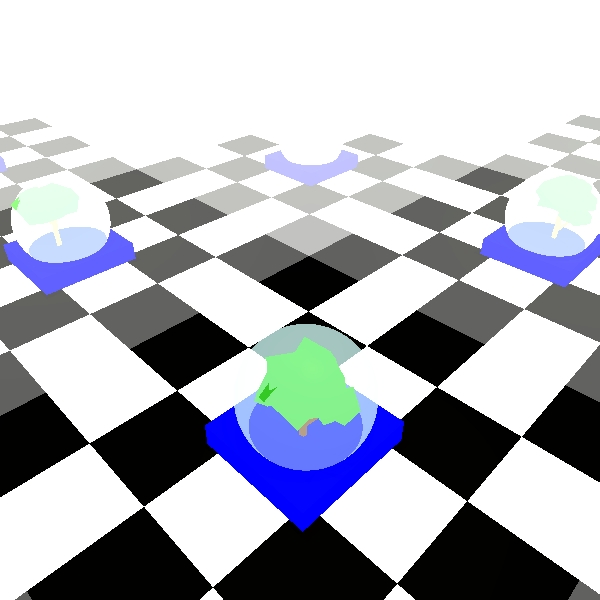
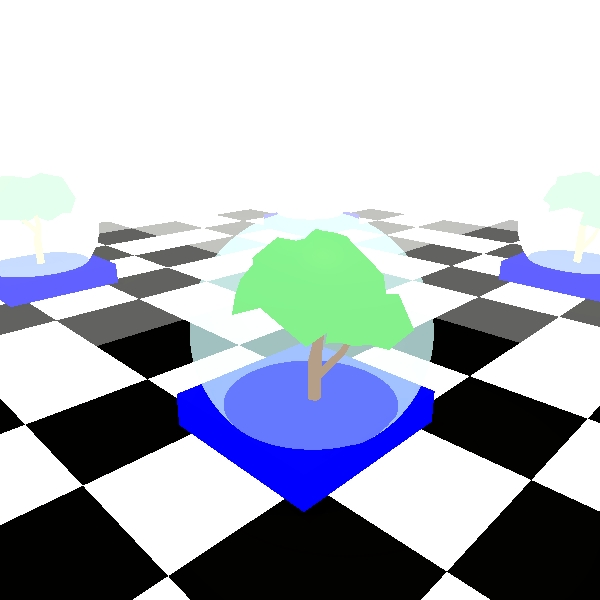
arbre dans sphere + damier

diff --git a/unitTest/Private/Wolf_1Test.java b/unitTest/Private/Wolf_1Test.java
@@ -84,16 +84,16 @@ public class Wolf_1Test {
                         new Vector(0, 1, 0),
                         new Vector(1,0 ,0 )))*/
                 .addCamera(new Camera( // vue de haut gauche
-                         new Point3D(-1499, 2400, -1559),
-                         new Vector(1, -1, 1),
-                         new Vector(sqrt(2)/2 ,sqrt(2) ,sqrt(2)/2  )))
+                         new Point3D(-1499, 1200, -1559),
+                         new Vector(1, -0.5, 1),
+                         new Vector(0.5  ,2,0.5   )))
                 .addDistance(180)
                 .addBackground(Color.BLACK)
                 .build();
 
         scene.addGeometries( //
-                             new Sphere(new Color(100, 120, 120), new Material(0.5, 0.5, 30,0.6,0),400,
-                                        new Point3D(0, 224.7280955, -13.568478)),
+                             new Sphere(new Color(100, 120, 120), new Material(0.5, 0.5, 30,0.6,0),500,
+                                        new Point3D(-50, 324.7280955, -43.568478)),
 
                             // cube du bas
                              new Cube(new Color(java.awt.Color.BLUE), new Material(0.5, 0.5, 30),
@@ -112,10 +112,10 @@ public class Wolf_1Test {
                                  //   new Material(0, 0, 30),new Point3D(0,0,0),1)
                              new Tree( // tronc
                                        new Color(136, 66, 29),
-                                       new Material(0, 0, 30),new Point3D(-40,0,-90),2.7), // deplace le tronc de 60 a droite
+                                       new Material(0, 0, 30),new Point3D(-50,0,-43),3.5), // deplace le tronc de 60 a droite
                              new Tree_2( // feuille
                                         new Color(52, 201, 36),
-                                        new Material(0, 0, 30),new Point3D(-40,0,-90),2.7) // // deplace les feuille de 60 a droite
+                                       new Material(0, 0, 30),new Point3D(-50,0,-43),3.5) // // deplace les feuille de 60 a droite
 
 
         );
